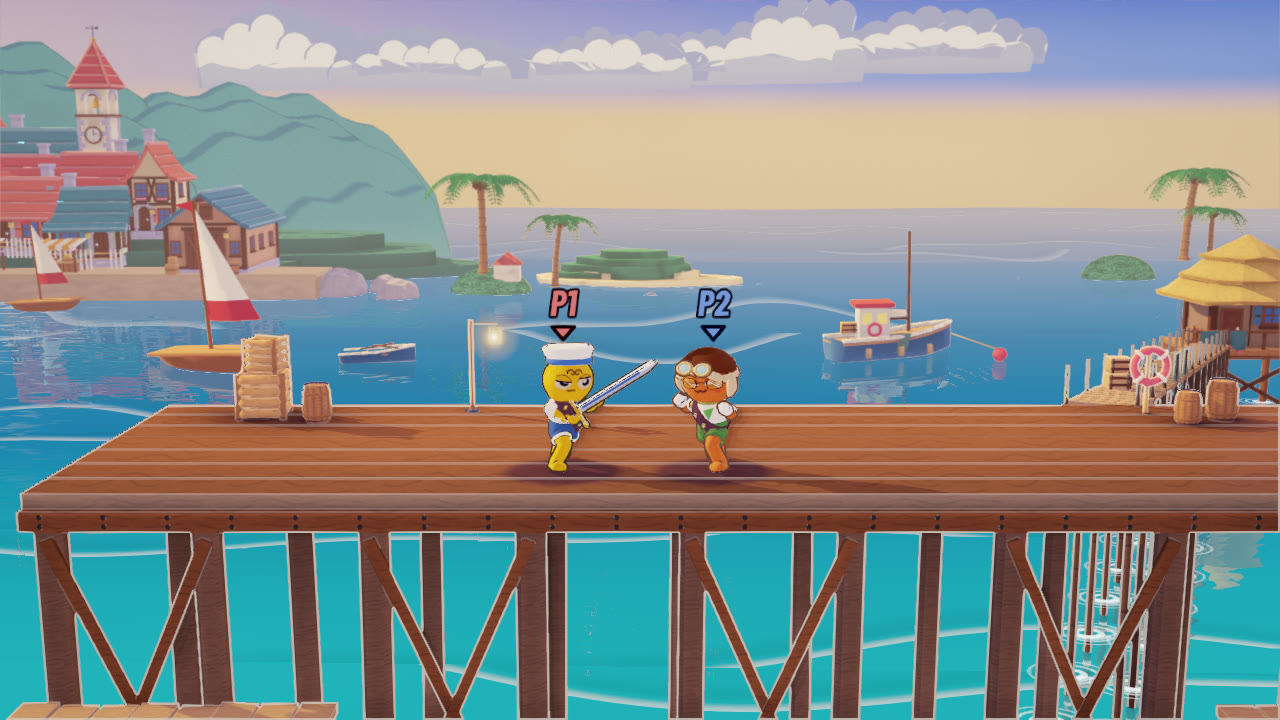
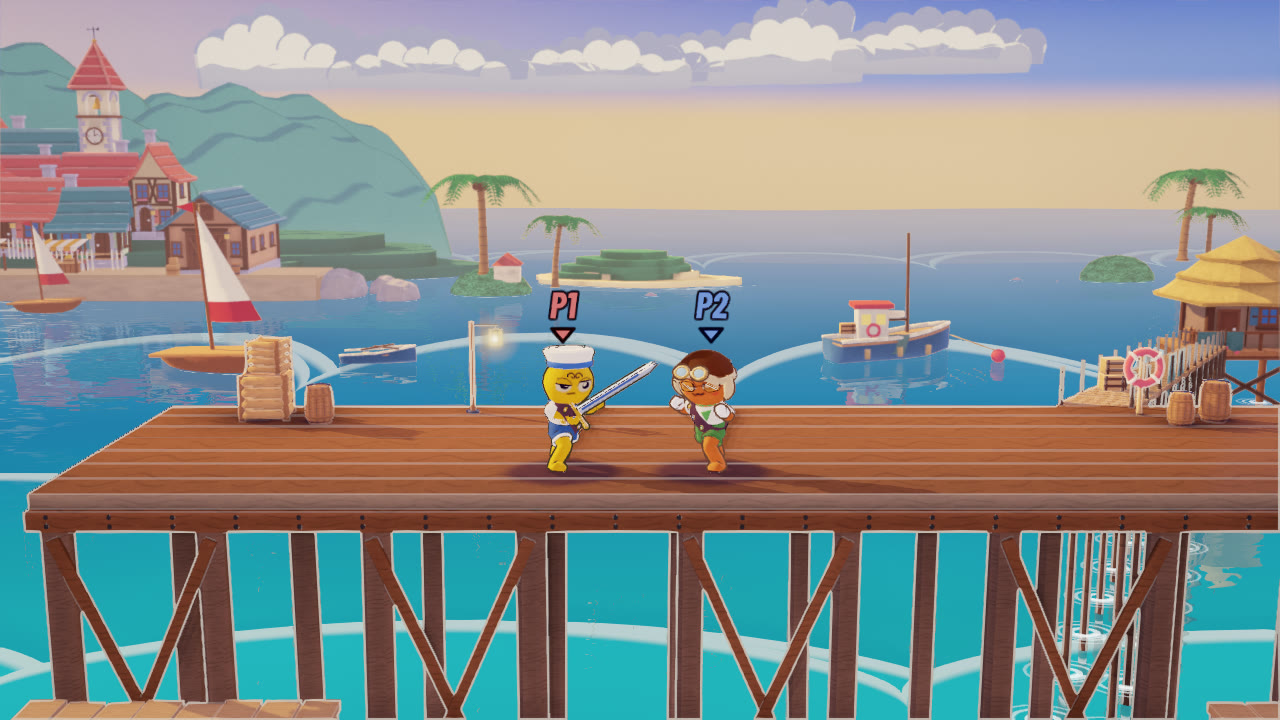
Paper sea reworked (the owner: it read as lines): overlapping card sheets with rounded wave caps, each lit at its own lip, shaded across, a step apart in tone, laying a soft shadow on the sheet behind; calmer toward the horizon. Review page: viewers that shared element ids with older sections (meado

diff --git a/docs/art/stages/mocks/look/review.html b/docs/art/stages/mocks/look/review.html
@@ -95,11 +95,13 @@ kbd { font-family: var(--body); border: 1px solid var(--line); border-radius: 4p
     <div class="tablewrap"><table><thead><tr><th>Option</th><th>What it is</th></tr></thead><tbody>
       <tr><td>A &middot; Clear water</td><td>Colour by depth: clear turquoise near the pier, a deeper teal-blue through the middle, paler toward the horizon. A soft, wandering caustic net of light near the stage, fine ripples further out, and broad drifting patches. No crest rows. The ripple rings round the posts and the sun's glints stay.</td></tr>
       <tr><td>B &middot; Clear water with reflections</td><td>A, plus reflections of everything standing in or over the water: the pier and its posts, the boats, the town, the islands, the lighthouse. Each is a little darker than what it shows and rippled, fading with distance. About 0.15 ms of GPU time.</td></tr>
-      <tr><td>C &middot; Paper waves</td><td>The sea as tiers of card, each a wave-shaped sheet a step deeper than the one nearer, its cut edge catching the light and sliding slowly; with B's reflections. The most papercraft; it does bring back long lines across the water, though now as waves.</td></tr>
+      <tr><td>C &middot; Paper waves (reworked)</td><td>The sea as overlapping sheets of card, each a tier further out, its edge cut into rounded wave caps. Each sheet has its own tone and is shaded across toward its edge, its cut edge is a lit lip, and it lays a soft shadow on the sheet behind. The tiers are big near the pier and calm toward the horizon, sliding slowly, with B's reflections.</td></tr>
     </tbody></table></div>
     <div class="row" role="group" aria-label="View"><button data-sv="w">Wide</button><button data-sv="m">Match camera</button></div>
-    <div class="row" role="group" aria-label="Option"><button data-so="T">Today</button><button data-so="A">A &middot; Clear</button><button data-so="B">B &middot; Clear with reflections</button><button data-so="C">C &middot; Paper waves</button></div>
+    <div class="row" role="group" aria-label="Option"><button data-so="T">Today</button><button data-so="A">A &middot; Clear</button><button data-so="B">B &middot; Clear with reflections</button><button data-so="C">C &middot; Paper waves (reworked)</button></div>
     <div class="viewer"><img id="simg" alt="Beach sea option"><span class="vtag" id="stag"></span></div>
+    <p><b>C, reworked after your note</b> (it read as lines). The first version lit a thin strip on the sheet behind each edge, and every tier was the same tone, so each crest drew a bright line. Now each sheet is lit at its own lip and shades the one behind it. The first version is on the left and the rework on the right (wide, then the match camera):</p>
+    <div class="viewer"><img src="sea_c12.jpg" alt="The paper sea, first version and reworked"></div>
     <p>Close up, today against B (the town side, then the hut and lighthouse side):</p>
     <div class="viewer"><img src="sea_close.jpg" alt="The sea today and with clear water and reflections, close crops"></div>
     <p class="muted">My pick: <b>B</b>. It's closest to the reference, and the reflections tie the town, boats and pier into the water instead of setting them on it.</p>
@@ -149,9 +151,9 @@ kbd { font-family: var(--body); border: 1px solid var(--line); border-radius: 4p
       <tr><td>B &middot; Terraced fields</td><td>A laid as shallow terraces: each row of fields is a flatter shelf ending in a short, steep grass bank, which is the grove's lesson (lit tops over darker sides). The lanes ramp down the banks, and the farm stands on its own wide shelf.</td></tr>
       <tr><td>C &middot; Terraces and trees</td><td>B with pines along the hedgerows, one to three where boundaries start, and a copse behind the farm.</td></tr>
     </tbody></table></div>
-    <div class="row" role="group" aria-label="View"><button data-fv="w">Wide</button><button data-fv="m">Match camera</button></div>
-    <div class="row" role="group" aria-label="Option"><button data-fo="T">Today</button><button data-fo="FA">A &middot; Hedged fields</button><button data-fo="FB">B &middot; Terraced fields</button><button data-fo="FC">C &middot; Terraces and trees</button></div>
-    <div class="viewer"><img id="fimg" alt="Meadow ground option"><span class="vtag" id="ftag"></span></div>
+    <div class="row" role="group" aria-label="View"><button data-mfv="w">Wide</button><button data-mfv="m">Match camera</button></div>
+    <div class="row" role="group" aria-label="Option"><button data-mfo="T">Today</button><button data-mfo="FA">A &middot; Hedged fields</button><button data-mfo="FB">B &middot; Terraced fields</button><button data-mfo="FC">C &middot; Terraces and trees</button></div>
+    <div class="viewer"><img id="mfimg" alt="Meadow ground option"><span class="vtag" id="mftag"></span></div>
     <p>Close up at the wide camera (today on the left, B on the right; the farm side, then the right-hand lane):</p>
     <div class="viewer"><img src="mf_close.jpg" alt="Meadow ground today and terraced, close crops"></div>
     <p class="muted">My pick: <b>C</b>, or B if you'd rather keep the trees to the belts on the hills. The terraces give the meadow the grove's structure without changing what the meadow is. Unlit mocks: the ship will bake the contact shade, as on the other stages, and trim the triangle count.</p>
@@ -233,8 +235,8 @@ kbd { font-family: var(--body); border: 1px solid var(--line); border-radius: 4p
       <tr><td>C &middot; Lawn</td><td>A clean lawn, with fields only round the farm and along the lanes: the calmest, closest to the reference's plain lime grass.</td></tr>
     </tbody></table></div>
     <div class="row" role="group" aria-label="View"><button data-qv="w">Wide</button><button data-qv="m">Match camera</button></div>
-    <div class="row" role="group" aria-label="Option"><button data-qo="T">Today</button><button data-qo="QA">A &middot; Tidy quilt</button><button data-qo="QB">B &middot; Big fields</button><button data-qo="QC">C &middot; Lawn</button></div>
-    <div class="viewer"><img id="qimg" alt="Meadow ground option"><span class="vtag" id="qtag"></span></div>
+    <div class="row" role="group" aria-label="Option"><button data-mqo="T">Today</button><button data-mqo="QA">A &middot; Tidy quilt</button><button data-mqo="QB">B &middot; Big fields</button><button data-mqo="QC">C &middot; Lawn</button></div>
+    <div class="viewer"><img id="mqimg" alt="Meadow ground option"><span class="vtag" id="mqtag"></span></div>
     <p class="muted">My pick: <b>A</b>. It keeps the farmland story but reads crisp and even.</p>
     <h3>Detail, starting with the meadow's trees</h3>
     <p>The background pines were five or six plain stacked cones. The detailed pine has eight skirts with scalloped hems (each tier's edge steps in light and shade), a slight lean up the tree, and a visible trunk with roots. Same size and place, about 2,400 triangles for the whole cluster. Left today, right detailed:</p>
@@ -355,8 +357,8 @@ kbd { font-family: var(--body); border: 1px solid var(--line); border-radius: 4p
     <p><b>Pilot 3, your ask:</b> the terraces in a half-circle round the stage. Three tiers, each a band of the arc, run from beside the stage round behind it, each rising from the one in front, so the island floats in a bowl of cliffs. The left and right halves of the two nearer tiers meet straight behind the great tree, each at its own height. The side trees, the gates and the far tree village keep their footing.</p>
     <p><b>Pilot 4, after your notes on the trees:</b> the terraces now stand the grove's own tree (the side trees' model) at the side trees' size, as the reference's forest is all one kind of giant. They replace the small paper pines, which read as shrubs. Each tree is seated on the grass and kept clear of the edges, the gates, the village's trees and the others. The cliffs have wider, taller blocks with moss on the ledges each block leaves as it steps back, and the tops have flowers among the tufts. Frame time: the GPU at 2.7 ms (2.35 today), 183 fps.</p>
     <div class="row" role="group" aria-label="View"><button data-hv="w">Wide</button><button data-hv="m">Match camera</button><button data-hv="r">Reference</button></div>
-    <div class="row" role="group" aria-label="Option"><button data-ho="T">Today (floating islands)</button><button data-ho="H">Pilot 1 (broken ledges)</button><button data-ho="H2">Pilot 2 (connected terraces)</button><button data-ho="H3">Pilot 3 (half-circle)</button><button data-ho="H4">Pilot 4 (one kind of tree)</button></div>
-    <div class="viewer"><img id="himg" alt="Grove ground pilot"><span class="vtag" id="htag"></span></div>
+    <div class="row" role="group" aria-label="Option"><button data-gho="T">Today (floating islands)</button><button data-gho="H">Pilot 1 (broken ledges)</button><button data-gho="H2">Pilot 2 (connected terraces)</button><button data-gho="H3">Pilot 3 (half-circle)</button><button data-gho="H4">Pilot 4 (one kind of tree)</button></div>
+    <div class="viewer"><img id="ghimg" alt="Grove ground pilot"><span class="vtag" id="ghtag"></span></div>
     <p class="muted">It isn't finished: the blocks still read a little like stacked boxes in the wide view, and the far ledges' tops line up. But the frame now has the reference's light-over-dark structure. If this is the direction, I'd take the same rules to the other three stages:</p>
     <ul style="display:grid;gap:6px;margin:0;padding-left:1.2em;max-width:75ch">
       <li><strong>Meadow:</strong> the land behind as two or three big overlapping hill masses: grass draped over earth banks with the soil showing at the cut edges, hedgerows along the crests, shaded sides, in place of fields laid flat on one slope.</li>
@@ -609,15 +611,15 @@ kbd { font-family: var(--body); border: 1px solid var(--line); border-radius: 4p
   group("data-rs", function (v) { rs = v; }, rrender);
   group("data-rv", function (v) { rv = v; }, rrender);
   rrender();
-  var qv = "w", qo = "QA";
-  var QO = { T: "Today", QA: "A · Tidy quilt", QB: "B · Big fields", QC: "C · Lawn" };
+  var qv = "w", mqo = "QA";
+  var MQO = { T: "Today", QA: "A · Tidy quilt", QB: "B · Big fields", QC: "C · Lawn" };
   function qrender2() {
-    document.getElementById("qimg").src = "mq_" + qv + "_" + qo + ".jpg";
-    document.getElementById("qtag").textContent = "Meadow · " + QO[qo] + (qv === "w" ? " · wide" : " · match camera");
-    pressed("data-qv", qv); pressed("data-qo", qo);
+    document.getElementById("mqimg").src = "mq_" + qv + "_" + mqo + ".jpg";
+    document.getElementById("mqtag").textContent = "Meadow · " + MQO[mqo] + (qv === "w" ? " · wide" : " · match camera");
+    pressed("data-qv", qv); pressed("data-mqo", mqo);
   }
   group("data-qv", function (v) { qv = v; }, qrender2);
-  group("data-qo", function (v) { qo = v; }, qrender2);
+  group("data-mqo", function (v) { mqo = v; }, qrender2);
   qrender2();
   var rs2 = "close";
   var RS2 = { close: "../../review5/shadows_close.jpg", all: "../../review5/shadows_built.jpg" };
@@ -661,21 +663,21 @@ kbd { font-family: var(--body); border: 1px solid var(--line); border-radius: 4p
   group("data-mv", function (v) { mv = v; }, mrender);
   group("data-mo", function (v) { mo = v; }, mrender);
   mrender();
-  var hv = "w", ho = "H4";
-  function hrender() {
-    var img = document.getElementById("himg");
+  var hv = "w", gho = "H4";
+  function ghrender() {
+    var img = document.getElementById("ghimg");
     if (hv === "r") {
       img.src = "../../../benchmarks/grove_reference.webp";
-      document.getElementById("htag").textContent = "The grove's reference";
+      document.getElementById("ghtag").textContent = "The grove's reference";
     } else {
-      img.src = "gh_" + hv + "_" + ho + ".jpg";
-      document.getElementById("htag").textContent = "Grove \u00b7 " + ({ H: "pilot 1", H2: "pilot 2", H3: "pilot 3", H4: "pilot 4", T: "today" })[ho] + (hv === "w" ? " \u00b7 wide" : " \u00b7 match camera");
+      img.src = "gh_" + hv + "_" + gho + ".jpg";
+      document.getElementById("ghtag").textContent = "Grove \u00b7 " + ({ H: "pilot 1", H2: "pilot 2", H3: "pilot 3", H4: "pilot 4", T: "today" })[gho] + (hv === "w" ? " \u00b7 wide" : " \u00b7 match camera");
     }
-    pressed("data-hv", hv); pressed("data-ho", ho);
+    pressed("data-hv", hv); pressed("data-gho", gho);
   }
-  group("data-hv", function (v) { hv = v; }, hrender);
-  group("data-ho", function (v) { ho = v; }, hrender);
-  hrender();
+  group("data-hv", function (v) { hv = v; }, ghrender);
+  group("data-gho", function (v) { gho = v; }, ghrender);
+  ghrender();
   var bv = "w", bo = "C";
   var BO = { T: "Today", A: "A \u00b7 Cardboard blocks", B: "B \u00b7 Slab courses", C: "C \u00b7 Blocks and fallen rock" };
   function brender() {
@@ -719,18 +721,18 @@ kbd { font-family: var(--body); border: 1px solid var(--line); border-radius: 4p
   group("data-fv", function (v) { fv = v; }, frender);
   group("data-fo", function (v) { fo = v; }, frender);
   frender();
-  var fv = "w", fo = "FB";
-  var FO = { T: "Today", FA: "A · Hedged fields", FB: "B · Terraced fields", FC: "C · Terraces and trees" };
-  function frender() {
-    document.getElementById("fimg").src = "mf_" + fo + "_" + fv + ".jpg";
-    document.getElementById("ftag").textContent = "Meadow · " + FO[fo] + (fv === "w" ? " · wide" : " · match camera");
-    pressed("data-fv", fv); pressed("data-fo", fo);
+  var mfv = "w", mfo = "FB";
+  var MFO = { T: "Today", FA: "A · Hedged fields", FB: "B · Terraced fields", FC: "C · Terraces and trees" };
+  function mfrender() {
+    document.getElementById("mfimg").src = "mf_" + mfo + "_" + mfv + ".jpg";
+    document.getElementById("mftag").textContent = "Meadow · " + MFO[mfo] + (mfv === "w" ? " · wide" : " · match camera");
+    pressed("data-mfv", mfv); pressed("data-mfo", mfo);
   }
-  group("data-fv", function (v) { fv = v; }, frender);
-  group("data-fo", function (v) { fo = v; }, frender);
-  frender();
+  group("data-mfv", function (v) { mfv = v; }, mfrender);
+  group("data-mfo", function (v) { mfo = v; }, mfrender);
+  mfrender();
   var sv = "w", so = "B";
-  var SO = { T: "Today", A: "A \u00b7 Clear", B: "B \u00b7 Clear with reflections", C: "C \u00b7 Paper waves" };
+  var SO = { T: "Today", A: "A \u00b7 Clear", B: "B \u00b7 Clear with reflections", C: "C \u00b7 Paper waves (reworked)" };
   function srender() {
     document.getElementById("simg").src = "sea_" + so + "_" + sv + ".jpg";
     document.getElementById("stag").textContent = "Beach \u00b7 " + SO[so] + (sv === "w" ? " \u00b7 wide" : " \u00b7 match camera");
